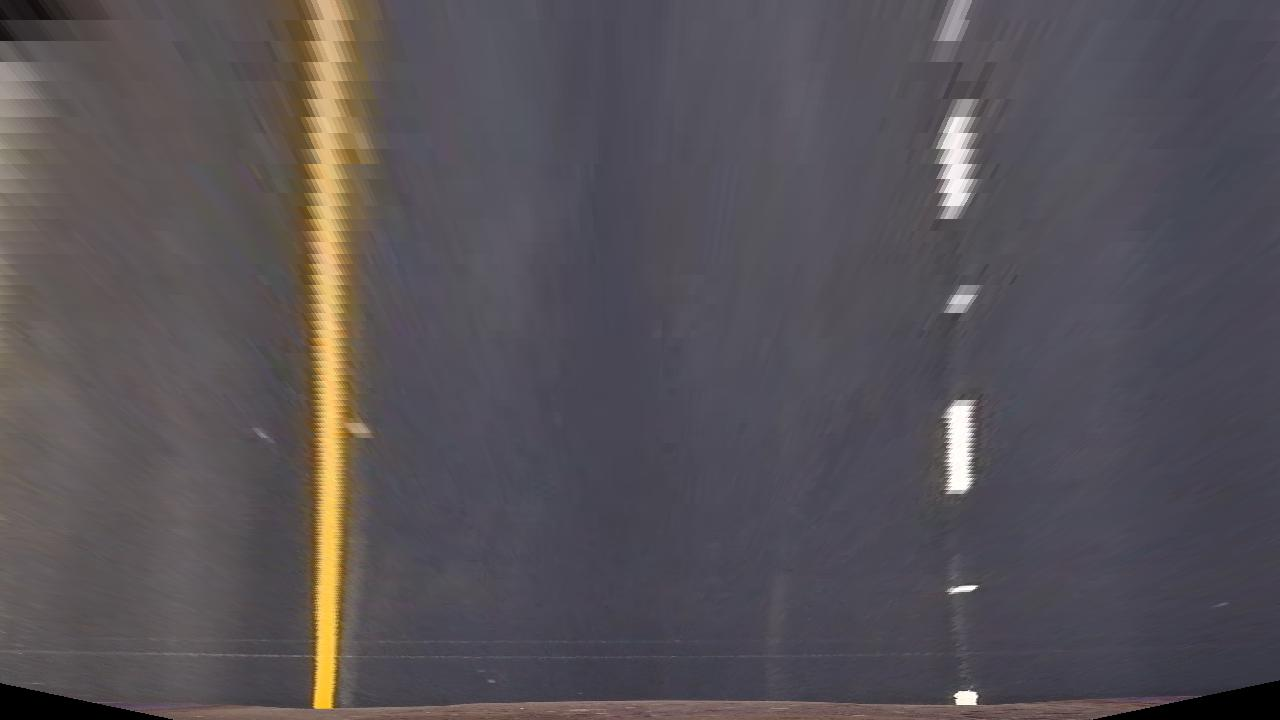
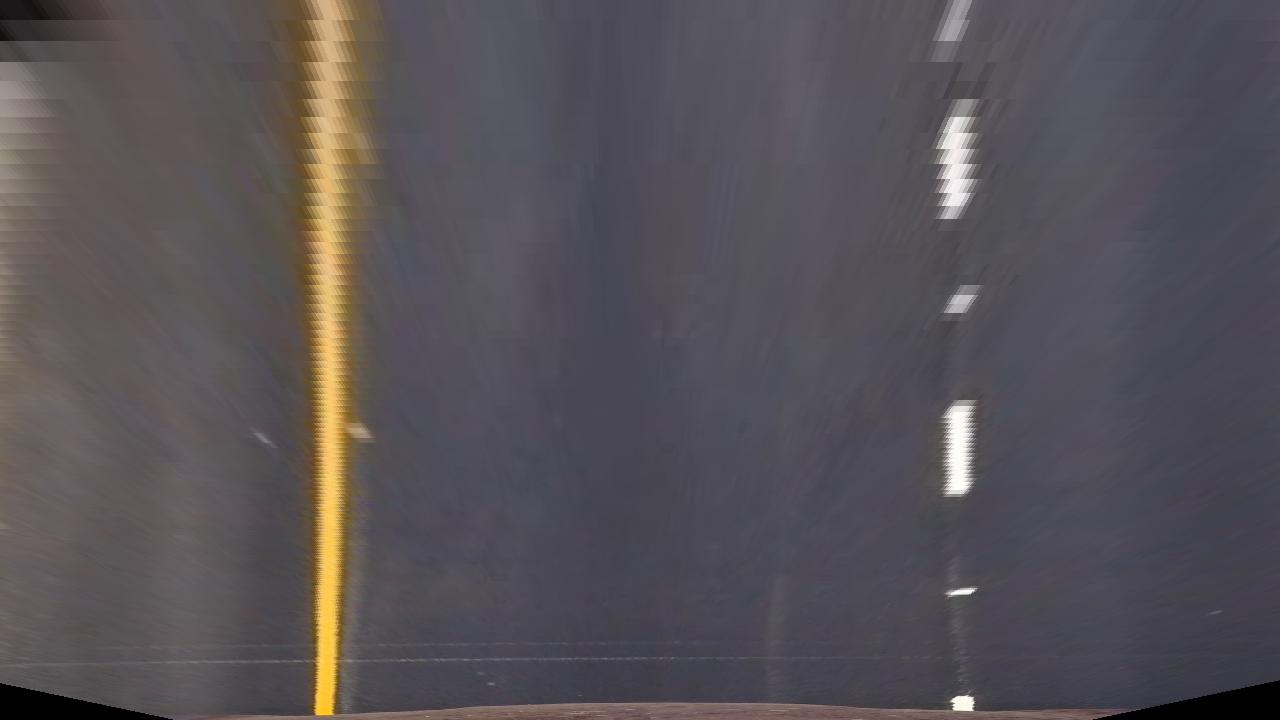
could display white lines on binary images

diff --git a/laneline.py b/laneline.py
@@ -61,7 +61,8 @@ def edge_detect(img, s_thresh=(170, 255), sx_thresh=(20, 100)):
 
     # Threshold x gradient
     sxbinary = np.zeros_like(scaled_sobel)
-    sxbinary[(scaled_sobel >= sx_thresh[0]) & (scaled_sobel <= sx_thresh[1])] = 1
+    sxbinary[
+        (scaled_sobel >= sx_thresh[0]) & (scaled_sobel <= sx_thresh[1])] = 1
 
     # Threshold color channel
     s_binary = np.zeros_like(s_channel)
@@ -72,7 +73,7 @@ def edge_detect(img, s_thresh=(170, 255), sx_thresh=(20, 100)):
     color_binary = np.dstack((np.zeros_like(sxbinary), sxbinary, s_binary))
 
     combined_binary = np.zeros_like(sxbinary)
-    combined_binary[(s_binary == 1) | (sxbinary == 1)] = 1
+    combined_binary[(s_binary == 1) | (sxbinary == 1)] = 255
     return color_binary, combined_binary
 
 
@@ -94,71 +95,4 @@ def perspective_trans(img):
     M = cv2.getPerspectiveTransform(src, dst)
     warped = cv2.warpPerspective(
         img, M, img_size, flags=cv2.INTER_NEAREST)
-
     return warped
-
-
-def draw_undistord():
-    objpoints, imgpoints = calibrate_camera(glob.glob('camera_cal/*.jpg'))
-    image = misc.imread('camera_cal/calibration1.jpg')
-    undistorted = cal_undistort(image, objpoints, imgpoints)
-    f, (ax1, ax2) = plt.subplots(1, 2, figsize=(24, 9))
-    f.tight_layout()
-    ax1.imshow(image)
-    ax1.set_title('Original Image', fontsize=50)
-    ax2.imshow(undistorted)
-    ax2.set_title('Undistorted Image', fontsize=50)
-    plt.subplots_adjust(left=0., right=1, top=0.9, bottom=0.)
-    plt.show()
-
-
-def draw_edges():
-    image = misc.imread('test_images/straight_lines2.jpg')
-    result = edge_detect(image)
-
-    # Plot the result
-    f, (ax1, ax2, ax3) = plt.subplots(1, 3, figsize=(24, 9))
-    f.tight_layout()
-
-    ax1.imshow(image)
-    ax1.set_title('Original Image', fontsize=40)
-
-    ax2.imshow(result[0])
-    ax2.set_title('Colorted Result', fontsize=40)
-
-    ax3.imshow(result[1])
-    ax3.set_title('Binary Result', fontsize=40)
-    plt.subplots_adjust(left=0., right=1, top=0.9, bottom=0.)
-    plt.show()
-
-
-def draw_perspective():
-    image = misc.imread('test_images/straight_lines1.jpg')
-    result = perspective_trans(image)
-
-    # Plot the result
-    f, (ax1, ax2) = plt.subplots(1, 2, figsize=(24, 9))
-    f.tight_layout()
-
-    ax1.imshow(image)
-    ax1.set_title('Original Image', fontsize=40)
-
-    ax2.imshow(result)
-    ax2.set_title('Colorted Result', fontsize=40)
-
-    plt.subplots_adjust(left=0., right=1, top=0.9, bottom=0.)
-    plt.show()
-
-
-def generate_images(in_fnames, out_directory, func):
-    for fname in in_fnames:
-        image = misc.imread(fname)
-        save_path = path.join(out_directory, path.basename(fname))
-        misc.imsave(save_path, func(image))
-
-if __name__ == "__main__":
-    # draw_undistord()
-    # draw_edges()
-    # draw_perspective()
-    generate_images(
-        glob.glob('test_images/*.jpg'), 'output_images/test_images', perspective_trans)

diff --git a/run.py b/run.py
@@ -1,0 +1,101 @@
+from laneline import calibrate_camera, cal_undistort
+from laneline import edge_detect, perspective_trans
+import numpy as np
+import cv2
+import glob
+import matplotlib.pyplot as plt
+from scipy import misc
+from os import path
+
+
+def draw_undistord():
+    objpoints, imgpoints = calibrate_camera(glob.glob('camera_cal/*.jpg'))
+    image = misc.imread('camera_cal/calibration1.jpg')
+    undistorted = cal_undistort(image, objpoints, imgpoints)
+    f, (ax1, ax2) = plt.subplots(1, 2, figsize=(24, 9))
+    f.tight_layout()
+    ax1.imshow(image)
+    ax1.set_title('Original Image', fontsize=50)
+    ax2.imshow(undistorted)
+    ax2.set_title('Undistorted Image', fontsize=50)
+    plt.subplots_adjust(left=0., right=1, top=0.9, bottom=0.)
+    plt.show()
+
+
+def draw_edges():
+    image = misc.imread('test_images/straight_lines2.jpg')
+    result = edge_detect(image)
+
+    # Plot the result
+    f, (ax1, ax2, ax3) = plt.subplots(1, 3, figsize=(24, 9))
+    f.tight_layout()
+
+    ax1.imshow(image)
+    ax1.set_title('Original Image', fontsize=40)
+
+    ax2.imshow(result[0])
+    ax2.set_title('Colorted Result', fontsize=40)
+
+    ax3.imshow(result[1])
+    ax3.set_title('Binary Result', fontsize=40)
+    plt.subplots_adjust(left=0., right=1, top=0.9, bottom=0.)
+    plt.show()
+
+
+def draw_perspective():
+    image = misc.imread('test_images/straight_lines1.jpg')
+    result = perspective_trans(image)
+
+    # Plot the result
+    f, (ax1, ax2) = plt.subplots(1, 2, figsize=(24, 9))
+    f.tight_layout()
+
+    ax1.imshow(image)
+    ax1.set_title('Original Image', fontsize=40)
+
+    ax2.imshow(result)
+    ax2.set_title('Colorted Result', fontsize=40)
+
+    plt.subplots_adjust(left=0., right=1, top=0.9, bottom=0.)
+    plt.show()
+
+
+def generate_images(in_fnames, out_directory, func):
+    for fname in in_fnames:
+        image = misc.imread(fname)
+        save_path = path.join(out_directory, path.basename(fname))
+        misc.imsave(save_path, func(image))
+def persp_binary_trans(img):
+    return edge_detect(perspective_trans(
+        cal_undistort(img, objpoints, imgpoints)))[0]
+
+
+def undistort_persp_trans(img):
+    return perspective_trans(cal_undistort(img, objpoints, imgpoints))
+
+
+def undistort_trans(img):
+    return cal_undistort(img, objpoints, imgpoints)
+
+
+def generate_edge_images():
+
+    def binary_trans(img):
+        return edge_detect(img)[1]
+
+    def color_trans(img):
+        return edge_detect(img)[0]
+
+    generate_images(
+        glob.glob('output_images/test_images/*.jpg'),
+        'output_images/test_images_binary', binary_trans)
+
+    generate_images(
+        glob.glob('output_images/test_images/*.jpg'),
+        'output_images/test_images_color', color_trans)
+
+if __name__ == "__main__":
+    # draw_undistord()
+    # draw_edges()
+    # draw_perspective()
+    generate_edge_images()
